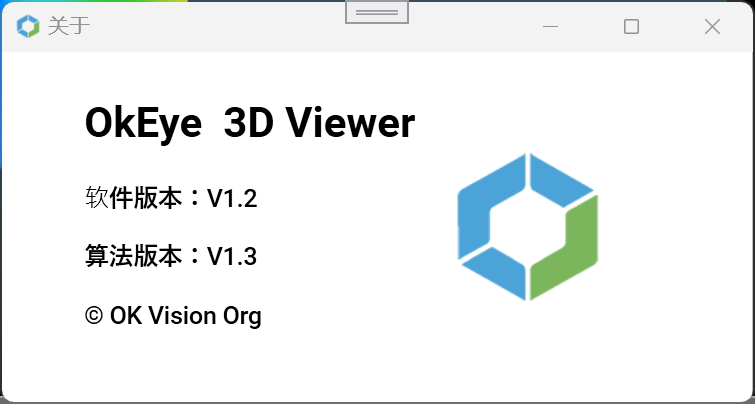
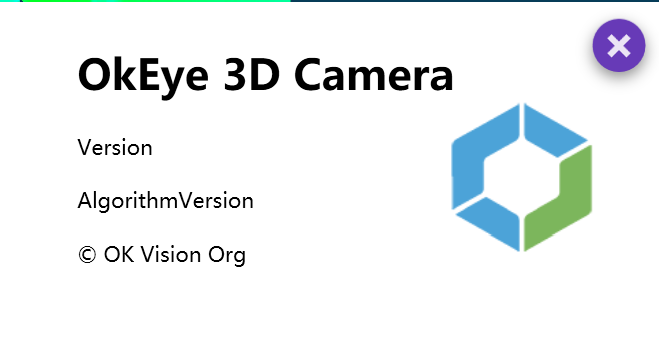
功能新文档

diff --git a/README.md b/README.md
@@ -49,6 +49,8 @@ OkEye 是一个3D相机查看平台，提供虚拟相机、相机发现、连接
 软件相机图像界面，如下图所示：
 ![软件相机图像界面](OkEye/Doc/CameraImagePage.png "软件相机图像看界面")
 
+软件多国语言支持，如下图所示：
+![软件多国语言支持](OkEye/Doc/MultiLanguage.png "软件多国语言支持")
 软件关于界面，如下图所示：
 ![软件关于](OkEye/Doc/AboutDialog.png "软件相机图像看界面")
 
